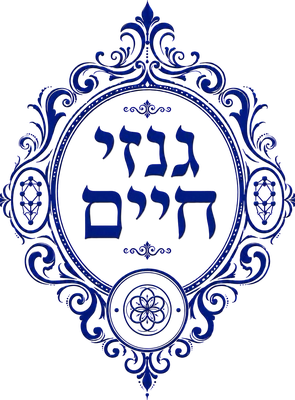
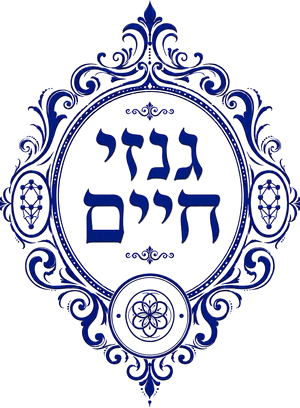
רקע האתר לפי העיצוב החדש של הרב (Site bckgnd V2)
- assets/paper.jpg: נייר צבעי מים מהקובץ החדש
- assets/pattern.jpg (מחליף את pattern.png): דוגמת הסמל ב-30% multiply כמו ב-V2 (במקום 10%), באותו מרווח של העיצוב, מוגדלת פי 1.5 כך שתיראה כמו בעמוד
- assets/title.webp: הכותרת החדשה בקשת
- assets/emblem.webp: הסמל מהקובץ החדש, ובכותרת הסמלים גדולים וצמודים לכותרת כמו בעיצוב
- הילה רכה מאחורי טקסט שיושב ישירות על הדוגמה, לקריאות בבהיר ובכהה
- ?v=2 על קבצי הרקע כדי שדפדפנים לא יציגו את הישנים מהמטמון

Claude-Session: https://claude.ai/code/session_01Fx6mpTTG1DvAYCMBZToqvb

diff --git a/index.html b/index.html
@@ -33,6 +33,7 @@
     --muted:#9aa0ab;
     --border:#262a33;
     --accent2-contrast:#14161c;
+    --halo:rgba(9,14,30,.95);
   }
   :root[data-theme="light"]{
     --bg:#dce8f8;
@@ -45,6 +46,7 @@
     --muted:#465066;
     --border:#cdd8ea;
     --accent2-contrast:#ffffff;
+    --halo:rgba(226,236,251,.95);
   }
   *{box-sizing:border-box;}
   .skip-link{
@@ -81,42 +83,46 @@
     min-height:100vh;
     transition:background .2s ease, color .2s ease;
   }
-  /* רקע האתר: נייר צבעי מים + דוגמת סמל "גנזי חיים" (לפי Site bckgnd.pdf) */
+  /* רקע האתר: נייר צבעי מים + דוגמת סמל "גנזי חיים" (לפי Site bckgnd V2.pdf: דוגמה ב-30%) */
   body::before{
     content:"";
     position:fixed;
     inset:0;
     z-index:-1;
     pointer-events:none;
-    background-image:linear-gradient(rgba(9,14,30,.8),rgba(9,14,30,.8)), url("assets/pattern.png"), url("assets/paper.jpg");
-    background-size:auto, 72px 127px, cover;
+    background-image:linear-gradient(rgba(9,14,30,.8),rgba(9,14,30,.8)), url("assets/pattern.jpg?v=2"), url("assets/paper.jpg?v=2");
+    background-size:auto, 107px 190px, cover;
     background-position:0 0, 0 0, center;
     background-repeat:no-repeat, repeat, no-repeat;
     background-blend-mode:normal, multiply, normal;
   }
   :root[data-theme="light"] body::before{
-    background-image:url("assets/pattern.png"), url("assets/paper.jpg");
-    background-size:72px 127px, cover;
+    background-image:url("assets/pattern.jpg?v=2"), url("assets/paper.jpg?v=2");
+    background-size:107px 190px, cover;
     background-position:0 0, center;
     background-repeat:repeat, no-repeat;
     background-blend-mode:multiply, normal;
+  }
+  /* הילה רכה מאחורי טקסט שיושב ישירות על דוגמת הרקע, לקריאות */
+  header p, .intro p, .groupby > span, .section-title, .section-title .see-all{
+    text-shadow:0 0 3px var(--halo), 0 0 8px var(--halo), 0 0 16px var(--halo);
   }
   .brand{
     display:flex;
     align-items:center;
     justify-content:space-between;
-    gap:16px;
-    max-width:880px;
+    gap:4px;
+    max-width:900px;
     margin:0 auto 10px;
   }
-  .brand-emblem{width:96px; height:auto; flex:none;}
+  .brand-emblem{width:132px; height:auto; flex:none;}
   .brand h1{margin:0; flex:1; min-width:0; display:flex; justify-content:center;}
-  .brand-title{display:block; width:100%; max-width:440px; height:auto;}
+  .brand-title{display:block; width:100%; max-width:580px; height:auto;}
   :root:not([data-theme="light"]) .brand-emblem{filter:invert(1) hue-rotate(180deg) brightness(1.05);}
   :root:not([data-theme="light"]) .brand-title{filter:drop-shadow(0 0 1px rgba(210,225,255,.9)) drop-shadow(0 0 10px rgba(160,190,255,.45));}
   @media (max-width:600px){
-    .brand{gap:8px;}
-    .brand-emblem{width:56px;}
+    .brand{gap:2px;}
+    .brand-emblem{width:64px;}
   }
   header{
     position:relative;
@@ -799,9 +805,9 @@
 <header>
   <button id="themeToggle" class="theme-toggle" title="החלף מצב תצוגה"></button>
   <div class="brand">
-    <img class="brand-emblem" src="assets/emblem.webp" alt="" aria-hidden="true" width="295" height="400">
-    <h1 id="siteTitle"><img class="brand-title" src="assets/title.webp" alt="גנזי חיים" width="900" height="221"></h1>
-    <img class="brand-emblem" src="assets/emblem.webp" alt="" aria-hidden="true" width="295" height="400">
+    <img class="brand-emblem" src="assets/emblem.webp?v=2" alt="" aria-hidden="true" width="300" height="408">
+    <h1 id="siteTitle"><img class="brand-title" src="assets/title.webp?v=2" alt="גנזי חיים" width="900" height="224"></h1>
+    <img class="brand-emblem" src="assets/emblem.webp?v=2" alt="" aria-hidden="true" width="300" height="408">
   </div>
   <p id="siteSubtitle">שיעורי הרב יואל חקון</p>
   <p class="stats" id="statsLine"></p>
